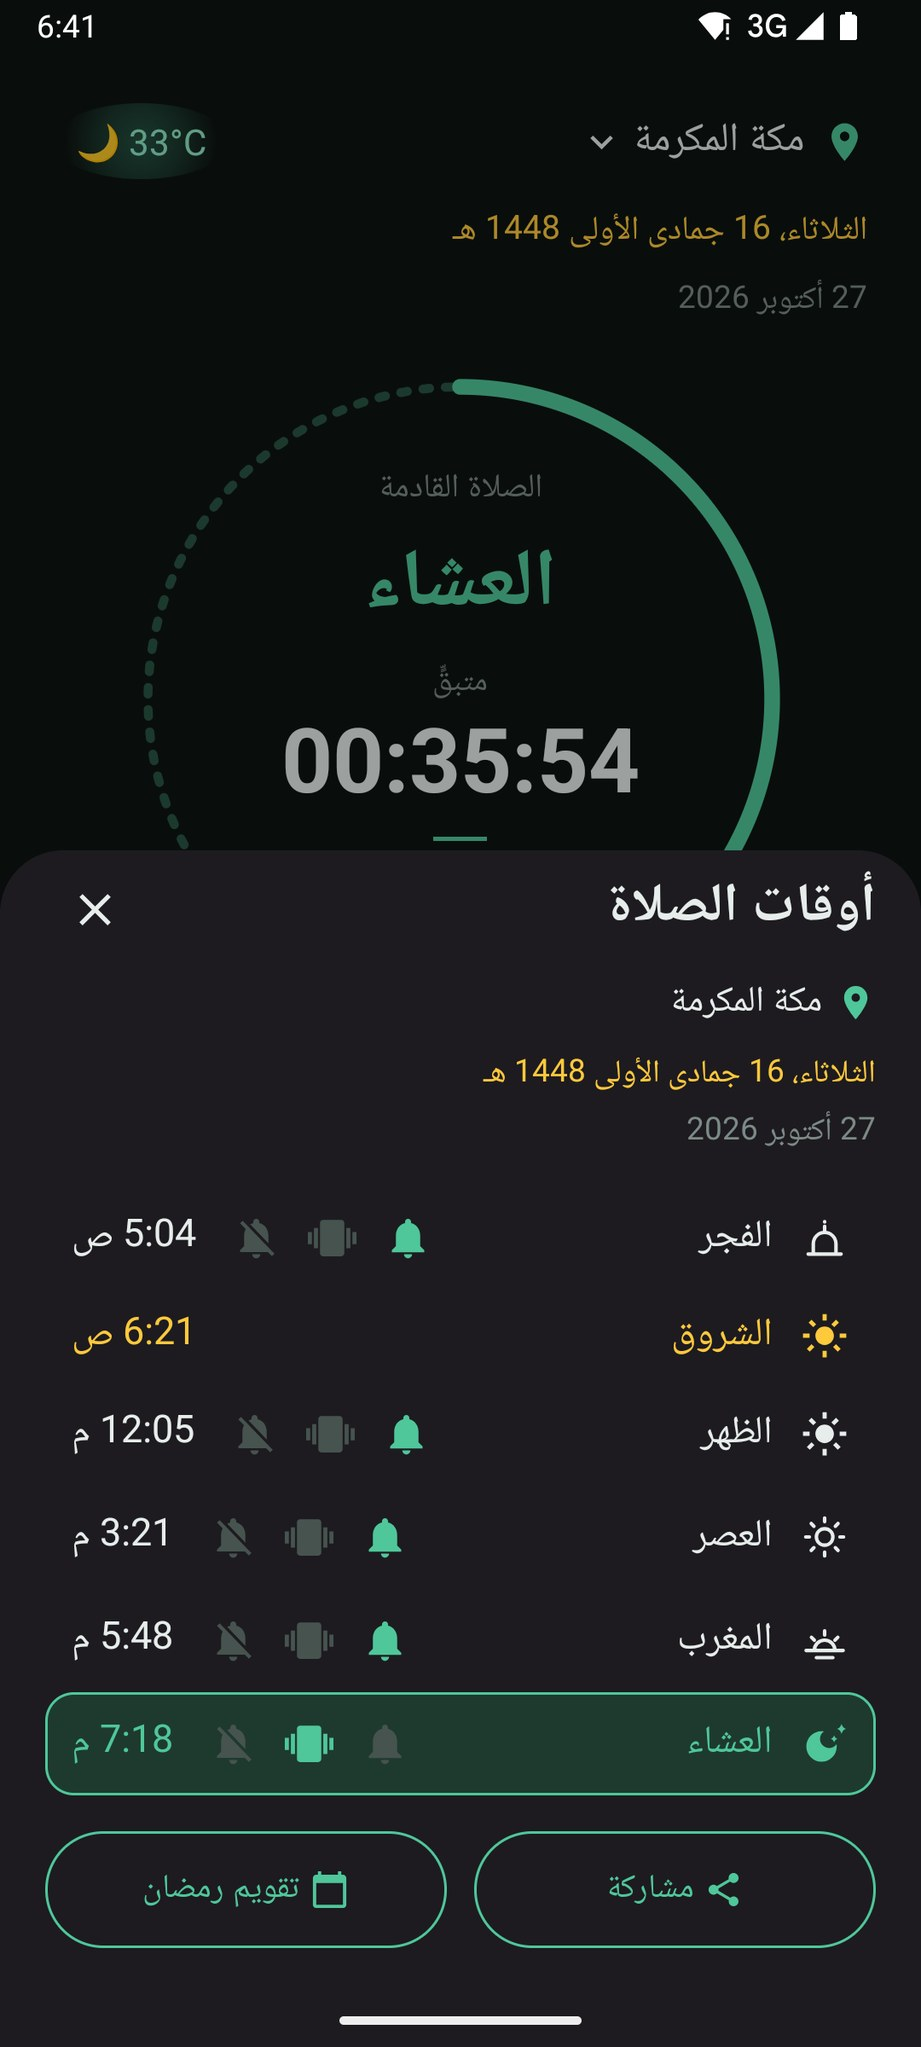
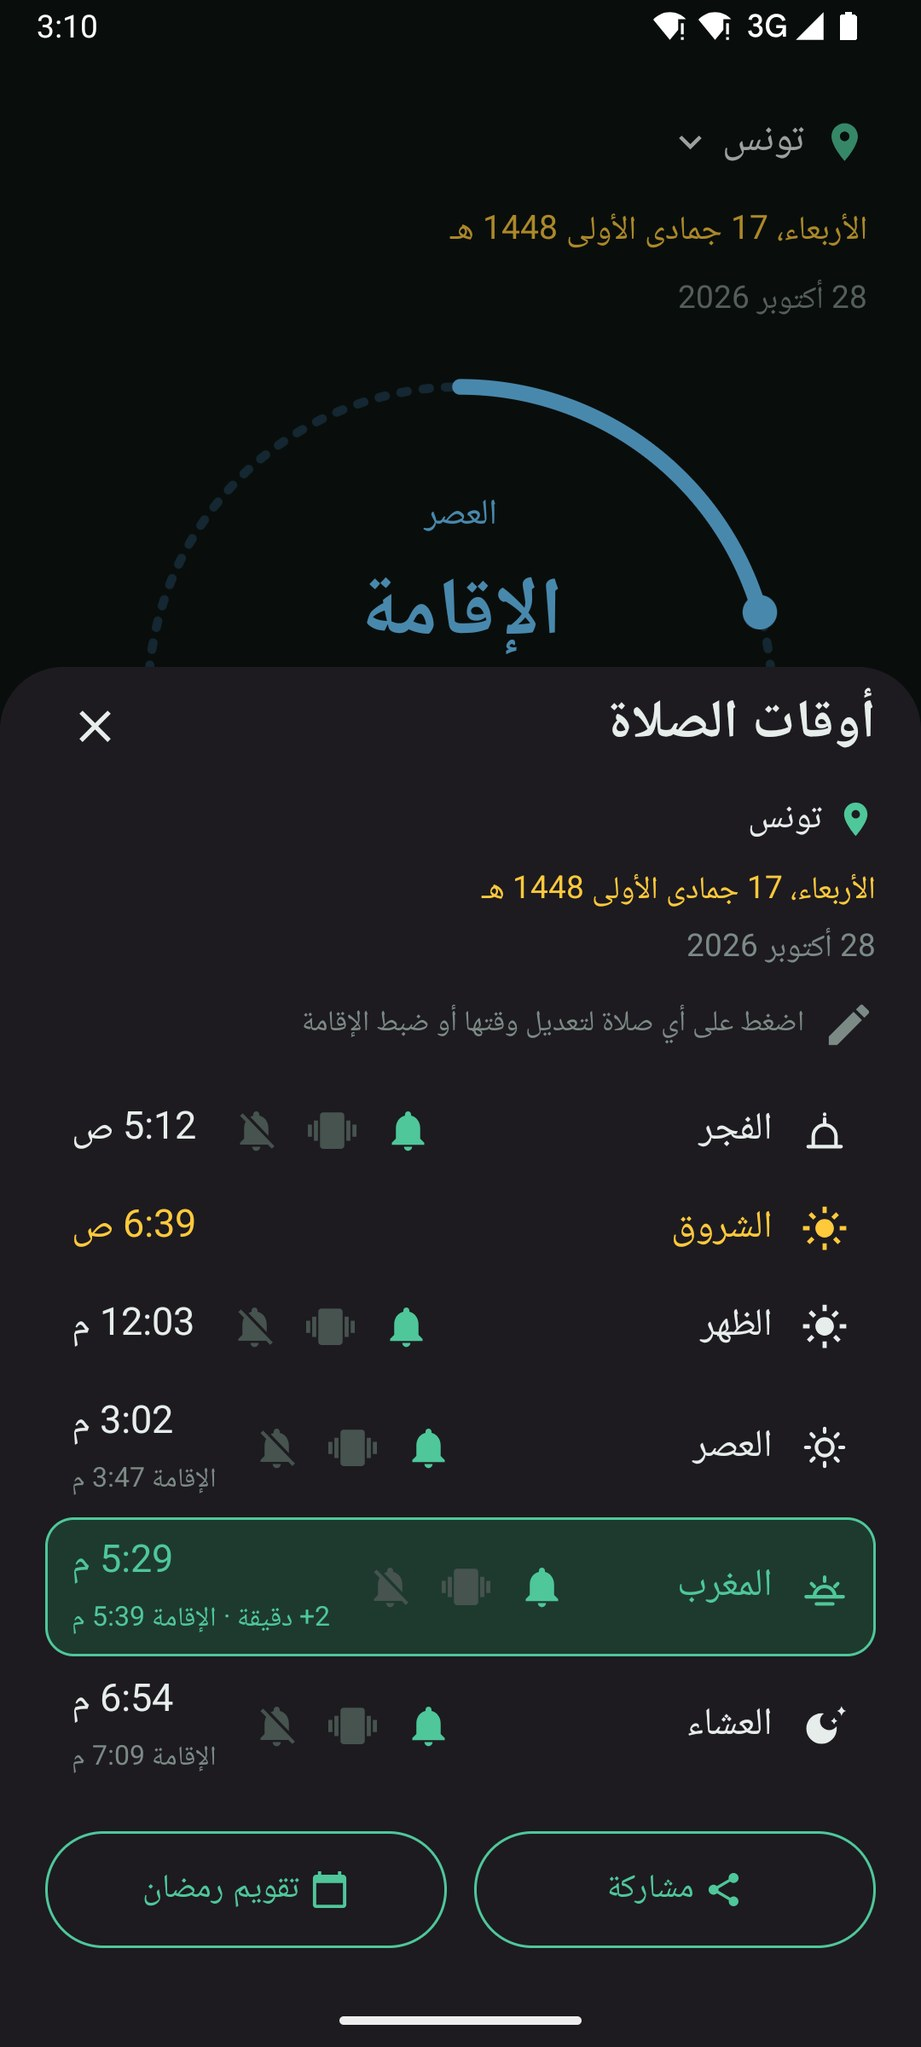
README: screenshots of 1.3.8 - iqama countdown, per-prayer adjustment, methods
New in both languages: the ring counting down to the iqama, the dialog that
adjusts a prayer and sets its iqama, and the calculation methods with
Morocco, Algeria, Tunisia and Turkey. The times-sheet shots are retaken to
show iqama times and an adjusted prayer, and the old method picker shot is
replaced. Taken on an emulator set to Tunis on Tunis time, minutes after Asr.

diff --git a/README.md b/README.md
@@ -47,7 +47,12 @@
 
 <p align="center">
   <img src="docs/screenshots/ar-home.jpg" width="220" alt="الشاشة الرئيسية: الصلاة القادمة والوقت المتبقي">
-  <img src="docs/screenshots/ar-times-sheet.jpg" width="220" alt="أوقات الصلاة لليوم">
+  <img src="docs/screenshots/ar-times-sheet.jpg" width="220" alt="أوقات الصلاة لليوم مع الإقامة">
+  <img src="docs/screenshots/ar-iqama-countdown.jpg" width="220" alt="عدّاد تنازلي للإقامة بعد الأذان">
+</p>
+<p align="center">
+  <img src="docs/screenshots/ar-prayer-adjust.jpg" width="220" alt="تعديل وقت صلاة وضبط إقامتها">
+  <img src="docs/screenshots/ar-methods.jpg" width="220" alt="طرق الحساب، ومنها المغرب والجزائر وتونس وتركيا">
   <img src="docs/screenshots/ar-check-and-test.jpg" width="220" alt="الفحص والتجربة">
 </p>
 <p align="center">
@@ -95,7 +100,12 @@ with the ringer down), and points to the qibla. Package
 
 <p align="center">
   <img src="docs/screenshots/home.jpg" width="220" alt="Home: the next prayer and the time left, in a ring that fills as it approaches">
-  <img src="docs/screenshots/times-sheet.jpg" width="220" alt="All times: today's table, with a per-prayer sound / vibrate / silent control">
+  <img src="docs/screenshots/times-sheet.jpg" width="220" alt="All times: today's table, with each prayer's iqama and sound / vibrate / silent control">
+  <img src="docs/screenshots/iqama-countdown.jpg" width="220" alt="Between the athan and the iqama, the ring counts down to the iqama">
+</p>
+<p align="center">
+  <img src="docs/screenshots/prayer-adjust.jpg" width="220" alt="Tap a prayer to adjust its time or set its iqama">
+  <img src="docs/screenshots/calculation-method.jpg" width="220" alt="Calculation methods, including Morocco, Algeria, Tunisia and Turkey">
   <img src="docs/screenshots/check-and-test.jpg" width="220" alt="Check and test: everything the athan needs, and buttons to hear it now">
 </p>
 <p align="center">
@@ -105,21 +115,20 @@ with the ringer down), and points to the qibla. Package
 </p>
 <p align="center">
   <img src="docs/screenshots/settings.jpg" width="220" alt="Settings">
-  <img src="docs/screenshots/calculation-method.jpg" width="220" alt="Calculation method picker">
   <img src="docs/screenshots/qibla.jpg" width="220" alt="Qibla compass with a Kaaba marker on the dial">
+  <img src="docs/screenshots/qibla-accuracy.jpg" width="220" alt="Prompt to recalibrate the compass away from metal and magnets">
 </p>
 <p align="center">
-  <img src="docs/screenshots/qibla-accuracy.jpg" width="220" alt="Prompt to recalibrate the compass away from metal and magnets">
   <img src="docs/screenshots/athan-sound.jpg" width="220" alt="Separate sound choice for Fajr and for the other prayers">
   <img src="docs/screenshots/sound-picker-other.jpg" width="220" alt="Sound picker: bundled recordings, a file from the device, or a ringtone">
+  <img src="docs/screenshots/sound-picker-fajr.jpg" width="220" alt="Fajr sound picker">
 </p>
 <p align="center">
-  <img src="docs/screenshots/sound-picker-fajr.jpg" width="220" alt="Fajr sound picker">
   <img src="docs/screenshots/more-athans.jpg" width="220" alt="Links out to athan libraries in the browser">
   <img src="docs/screenshots/downloaded-athans.jpg" width="220" alt="Athans you downloaded yourself appear here">
 </p>
 
-<p align="center"><sub>The newer screenshots are set to Mecca; in the older ones location details are blacked out. The app keeps your location on the device only.</sub></p>
+<p align="center"><sub>The newer screenshots are set to Mecca or Tunis; in the older ones location details are blacked out. The app keeps your location on the device only.</sub></p>
 
 ---
 
